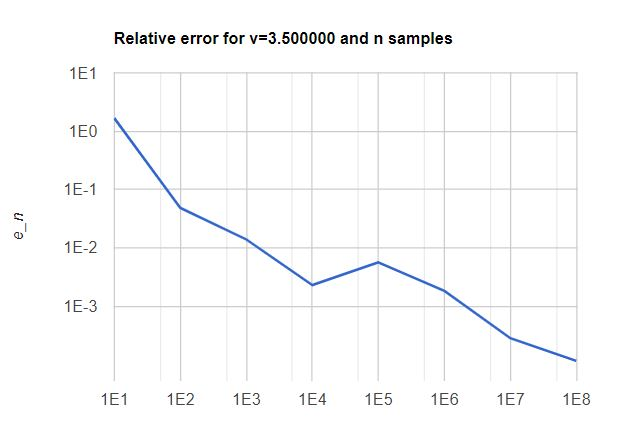
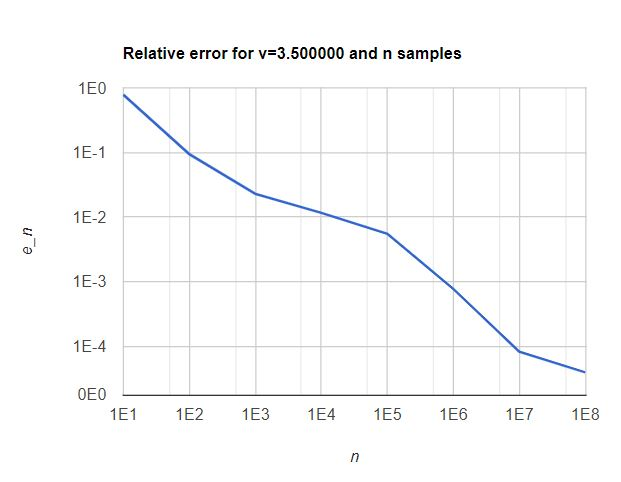
refactor modules

diff --git a/docs/97df9b24-aa70-4f70-9da0-3dcd53b62d18.html b/docs/97df9b24-aa70-4f70-9da0-3dcd53b62d18.html
@@ -14,18 +14,18 @@
                 if ("")
                     google.visualization.mapsApiKey = ""
 
-                var data = new google.visualization.DataTable({"cols": [{"type": "number" ,"id": "Column 1" ,"label": "Column 1" }, {"type": "number" ,"id": "Column 2" ,"label": "Column 2" }], "rows" : [{"c" : [{"v": 10}, {"v": 1.672612419124244}]}, {"c" : [{"v": 100}, {"v": 0.0480833016173505}]}, {"c" : [{"v": 1000}, {"v": 0.013796155304707118}]}, {"c" : [{"v": 10000}, {"v": 0.0022923004403689775}]}, {"c" : [{"v": 100000}, {"v": 0.005629943417772736}]}, {"c" : [{"v": 1000000}, {"v": 0.0018216990075616503}]}, {"c" : [{"v": 10000000}, {"v": 0.00028076279792751377}]}, {"c" : [{"v": 100000000}, {"v": 0.00011481438509267715}]}]});
+                var data = new google.visualization.DataTable({"cols": [{"type": "number" ,"id": "Column 1" ,"label": "Column 1" }, {"type": "number" ,"id": "Column 2" ,"label": "Column 2" }], "rows" : [{"c" : [{"v": 10}, {"v": 0.7817416127494957}]}, {"c" : [{"v": 100}, {"v": 0.09402968843245962}]}, {"c" : [{"v": 1000}, {"v": 0.022810815676693384}]}, {"c" : [{"v": 10000}, {"v": 0.011586835399032524}]}, {"c" : [{"v": 100000}, {"v": 0.005502560421134323}]}, {"c" : [{"v": 1000000}, {"v": 0.0007711519626705265}]}, {"c" : [{"v": 10000000}, {"v": 8.196583875783834E-05}]}, {"c" : [{"v": 100000000}, {"v": 3.933352183700774E-05}]}]});
 
                 
 
                 var options = {"hAxis":{"format":"scientific","logScale":true,"title":"n"},"height":400,"legend":{"position":"none"},"title":"Relative error for v=3.500000 and n samples","vAxis":{"format":"scientific","logScale":true,"title":"e_n"},"width":600} 
 
-                var chart = new google.visualization.LineChart(document.getElementById('bcc9bdff-caf0-44ef-ad68-c554e348a593'));
+                var chart = new google.visualization.LineChart(document.getElementById('97df9b24-aa70-4f70-9da0-3dcd53b62d18'));
                 chart.draw(data, options);
             }
         </script>
     </head>
     <body>
-        <div id="bcc9bdff-caf0-44ef-ad68-c554e348a593" style="width: -1px; height: -1px;"></div>
+        <div id="97df9b24-aa70-4f70-9da0-3dcd53b62d18" style="width: -1px; height: -1px;"></div>
     </body>
 </html>

diff --git a/README.md b/README.md
@@ -10,14 +10,14 @@ For more information see the [documentation](./docs/mc_sqrt.pdf).
 
 ```
 PS ...\app> dotnet run 3.5 8
-sqrt for (3.500000): expected=1.870829 estimated=5.000000 e_n=1.672612 for 10 samples
-sqrt for (3.500000): expected=1.870829 estimated=1.960784 e_n=0.048083 for 100 samples
-sqrt for (3.500000): expected=1.870829 estimated=1.845018 e_n=0.013796 for 1000 samples
-sqrt for (3.500000): expected=1.870829 estimated=1.875117 e_n=0.002292 for 10000 samples
-sqrt for (3.500000): expected=1.870829 estimated=1.881361 e_n=0.005630 for 100000 samples
-sqrt for (3.500000): expected=1.870829 estimated=1.867421 e_n=0.001822 for 1000000 samples
-sqrt for (3.500000): expected=1.870829 estimated=1.870303 e_n=0.000281 for 10000000 samples
-sqrt for (3.500000): expected=1.870829 estimated=1.871043 e_n=0.000115 for 100000000 samples
+sqrt for (3.500000): expected=1.870829 estimated=3.333333 e_n=0.781742 for 10 samples
+sqrt for (3.500000): expected=1.870829 estimated=1.694915 e_n=0.094030 for 100 samples
+sqrt for (3.500000): expected=1.870829 estimated=1.828154 e_n=0.022811 for 1000 samples
+sqrt for (3.500000): expected=1.870829 estimated=1.892506 e_n=0.011587 for 10000 samples
+sqrt for (3.500000): expected=1.870829 estimated=1.860534 e_n=0.005503 for 100000 samples
+sqrt for (3.500000): expected=1.870829 estimated=1.869386 e_n=0.000771 for 1000000 samples
+sqrt for (3.500000): expected=1.870829 estimated=1.870675 e_n=0.000082 for 10000000 samples
+sqrt for (3.500000): expected=1.870829 estimated=1.870902 e_n=0.000039 for 100000000 samples
 Simulation complete.
 PS ...\app>
 ```
